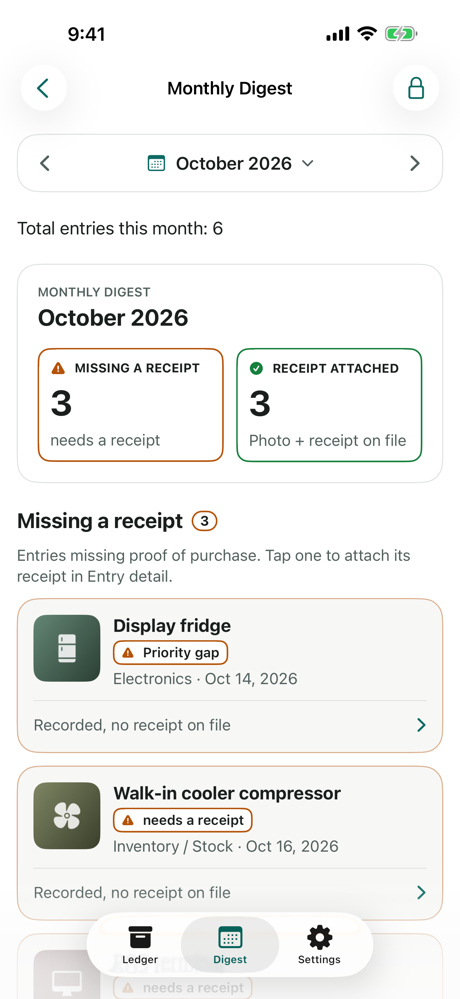
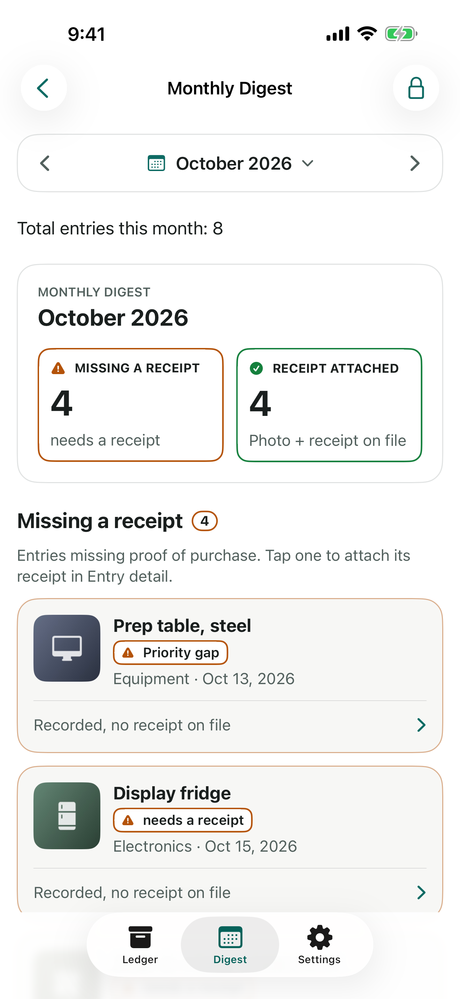
Landing images from the App Store set shot on e8fa122 (Settings unlock build); alt text matches them

diff --git a/index.html b/index.html
@@ -35,8 +35,8 @@
 
 <div class="shots">
 <figure><img src="img/01-ledger.png" alt="The Ledger screen: entries with photos, locations and a missing-receipt marker" width="460" height="999" loading="lazy"><figcaption>The ledger, filtered by location</figcaption></figure>
-<figure><img src="img/02-capture.png" alt="The Capture screen: photo, item name, category and location fields" width="460" height="999" loading="lazy"><figcaption>Capture an item</figcaption></figure>
-<figure><img src="img/03-digest.png" alt="The Monthly Digest screen: three entries missing a receipt, three with one" width="460" height="999" loading="lazy"><figcaption>The month&rsquo;s missing receipts</figcaption></figure>
+<figure><img src="img/02-capture.png" alt="The Capture screen: a dated photo and the item name, with Save entry below" width="460" height="999" loading="lazy"><figcaption>Capture an item</figcaption></figure>
+<figure><img src="img/03-digest.png" alt="The Monthly Digest screen: four entries missing a receipt, four with one" width="460" height="999" loading="lazy"><figcaption>The month&rsquo;s missing receipts</figcaption></figure>
 </div>
 <p class="muted">Screenshots show sample entries.</p>
 
